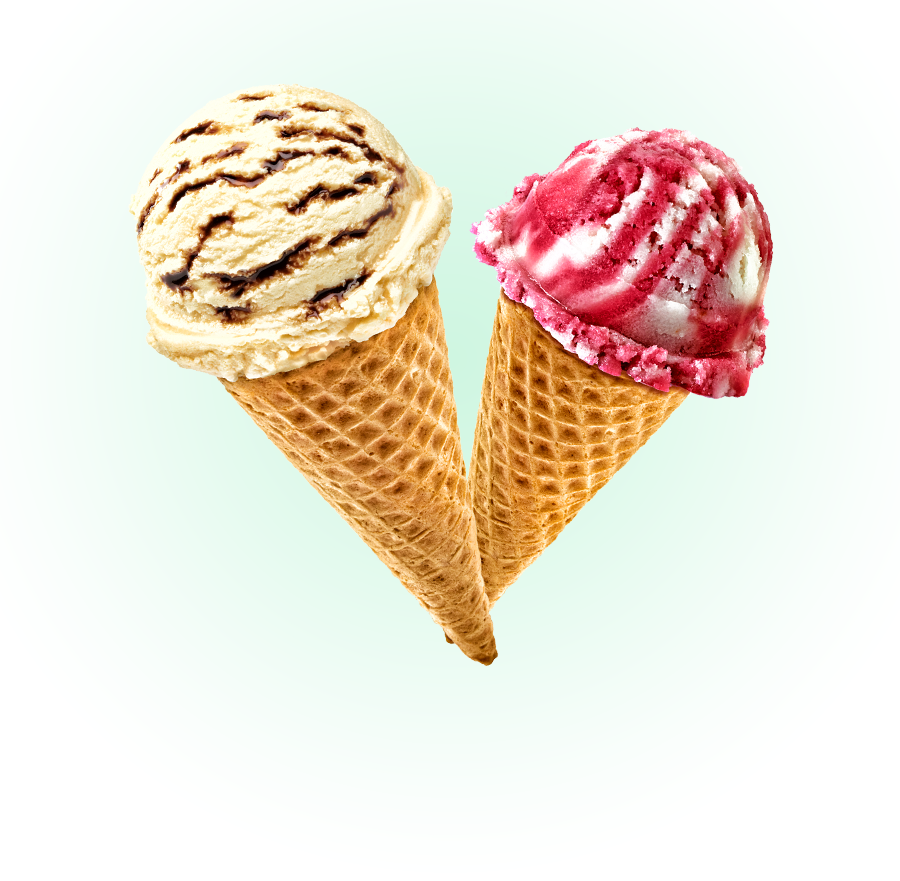
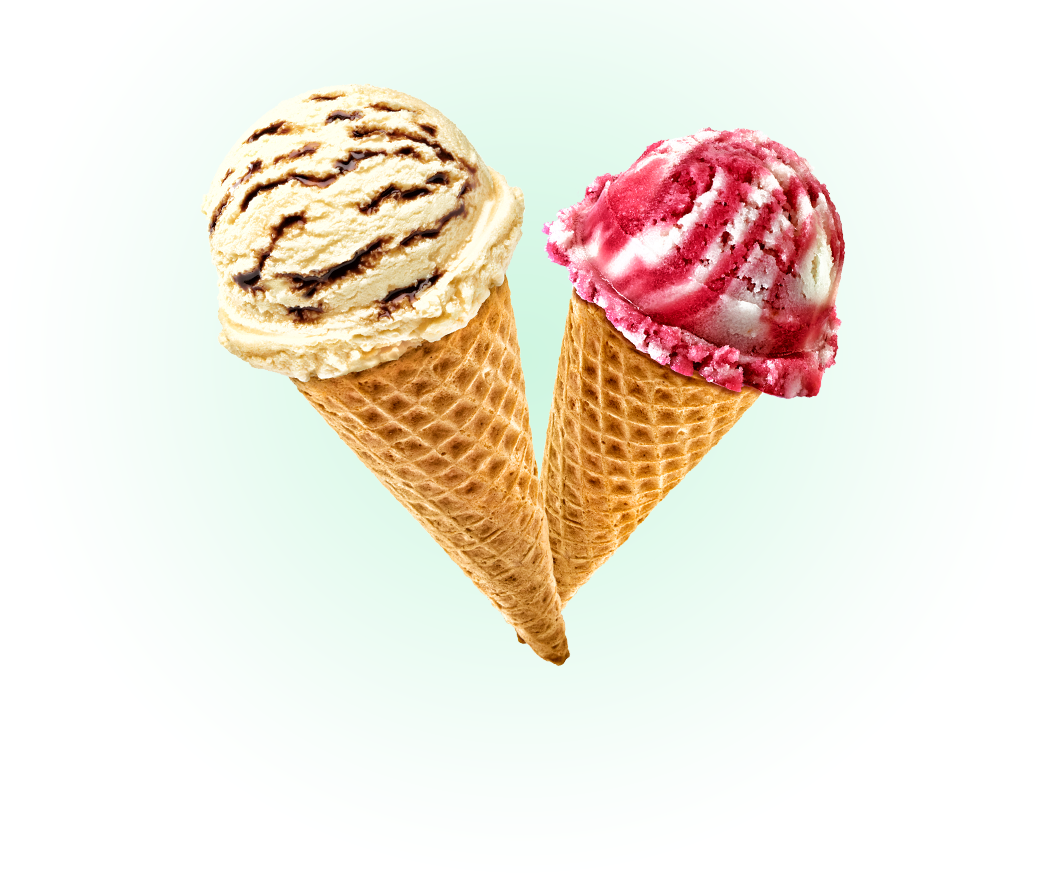
[section-2] Сделал правки.

Changed region(s): [[0.1244, 0.0919, 0.8711, 0.7662]]

diff --git a/index.html b/index.html
@@ -148,60 +148,60 @@
     </header>
     <main class="main-header">
       <h1 class="visually-hidden">Магазин мороженого &laquo;Gllacy&raquo;</h1>
-      <section class="slider-container">
+      <section class="slider">
         <h2 class="visually-hidden">Слайдер</h2>
         <ul class="slider__list">
           <li class="slider__item slider__item--active">
             <img
               class="slider__image"
               src="/img/section-2/slider-item1.png"
-              width="900"
+              width="1045"
               height="881"
               alt="Два рожка с мороженным"
             />
             <p class="slider__description">
               Крем-брюле и&nbsp;пломбир с&nbsp;малиновым джемом
             </p>
-            <a class="button slider__button" href="#">Давайте оба!</a>
+            <a class="button button--slider" href="#">Давайте оба!</a>
           </li>
           <li class="slider__item visually-hidden">
             <img
               class="slider__image"
               src="/img/section-2/slider-item2.png"
-              width="900"
+              width="1065"
               height="859"
               alt="Два рожка с мороженным"
             />
             <p class="slider__description">
               Шоколадный пломбир и&nbsp;лимонный сорбет
             </p>
-            <a class="button slider__button" href="#">Давайте оба!</a>
+            <a class="button button--slider" href="#">Давайте оба!</a>
           </li>
           <li class="slider__item visually-hidden">
             <img
               class="slider__image"
               src="/img/section-2/slider-item3.png"
-              width="900"
-              height="852"
+              width="1079"
+              height="854"
               alt="Два рожка с мороженным"
             />
             <p class="slider__description">
               Пломбир с&nbsp;помадкой и&nbsp;клубничный щербет
             </p>
-            <a class="button slider__button" href="#">Давайте оба!</a>
+            <a class="button button--slider" href="#">Давайте оба!</a>
           </li>
         </ul>
-        <ul class="slider-container__button-list">
-          <li class="button-list__item">
+        <ul class="slider__buttons">
+          <li class="buttons__item">
             <button
-              class="button-list__link button-list__link--one button-list__link--active"
+              class="buttons__link buttons__link--one buttons__link--active"
             ></button>
           </li>
-          <li class="button-list__item">
-            <button class="button-list__link button-list__link--two"></button>
+          <li class="buttons__item">
+            <button class="buttons__link buttons__link--two"></button>
           </li>
-          <li class="button-list__item">
-            <button class="button-list__link button-list__link--three"></button>
+          <li class="buttons__item">
+            <button class="buttons__link buttons__link--three"></button>
           </li>
         </ul>
       </section>

diff --git a/css/main-header/main-header.css b/css/main-header/main-header.css
@@ -1,4 +1,4 @@
-.slider-container {
+.slider {
   min-width: 900px;
   margin: 0 auto;
   padding: 0;
@@ -25,7 +25,7 @@
   position: absolute;
   z-index: -1;
   top: -126px;
-  left: 0%;
+  left: -7%;
 }
 
 .slider__description {
@@ -39,7 +39,7 @@
   font-weight: 700;
 }
 
-.slider__button {
+.button--slider {
   display: block;
   padding-top: 10px;
   padding-right: 40px;
@@ -50,7 +50,7 @@
   border-radius: 32px;
 }
 
-.slider-container__button-list {
+.slider__buttons {
   position: absolute;
   display: flex;
   top: 563px;
@@ -60,7 +60,7 @@
   list-style: none;
 }
 
-.button-list__link {
+.buttons__link {
   width: 20px;
   height: 20px;
   background-color: transparent;
@@ -68,11 +68,11 @@
   border-radius: 50%;
 }
 
-.button-list__link--active,
-.button-list__link:active {
+.buttons__link--active,
+.buttons__link:active {
   background-color: #ffffff;
 }
 
-.button-list__link:not(.button-list__link--active):not(:active):hover {
+.buttons__link:not(.buttons__link--active):not(:active):hover {
   background-color: rgba(256, 256, 256, 0.5);
 }
